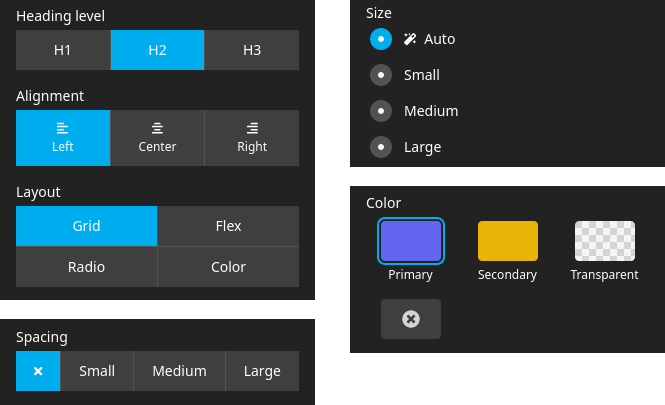
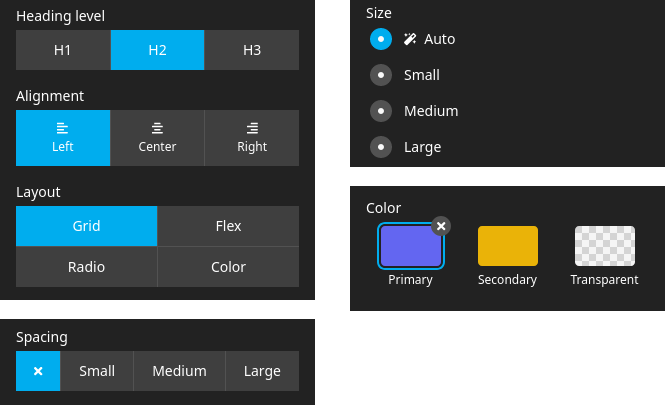
[DOCS] Update docs

diff --git a/README.md b/README.md
@@ -120,6 +120,7 @@ properties:
         editorOptions:
           layout: 'color'
           columns: 3
+          allowEmpty: true
           values:
             primary:
               color: '#6366f1'
@@ -131,8 +132,6 @@ properties:
             transparent:
               color: 'transparent'
               label: 'Transparent'
-            none:
-              color: 'none'
 ```
 
 </details>
@@ -158,8 +157,8 @@ You can select one of the following layout options:
 
 If you use the color layout or the grid layout, you can optionally specify the number of columns to render more than one
 row.
-The color layout is a special case for selecting a color. It renders the color in the editor. You can use `none` and
-`transparent` as color values to render these values in a visible way for the editors (see screenshot above).
+The color layout is a special case for selecting a color. It renders the color in the editor. You can use `transparent`
+as color value to render this value in a visible way for the editors (see screenshot above).
 
 Add a property of type string to your NodeType definition and use the following editor configuration:
 
@@ -178,6 +177,8 @@ properties:
           layout: 'flex'
           # Set number of columns to render multiple rows. Works only with 'grid' and 'color'
           columns: 2
+          # Allow empty value. Show a clear button in the selected color box. Does only work with the color layout
+          allowEmpty: true
           values:
             left:
               # Show a label
